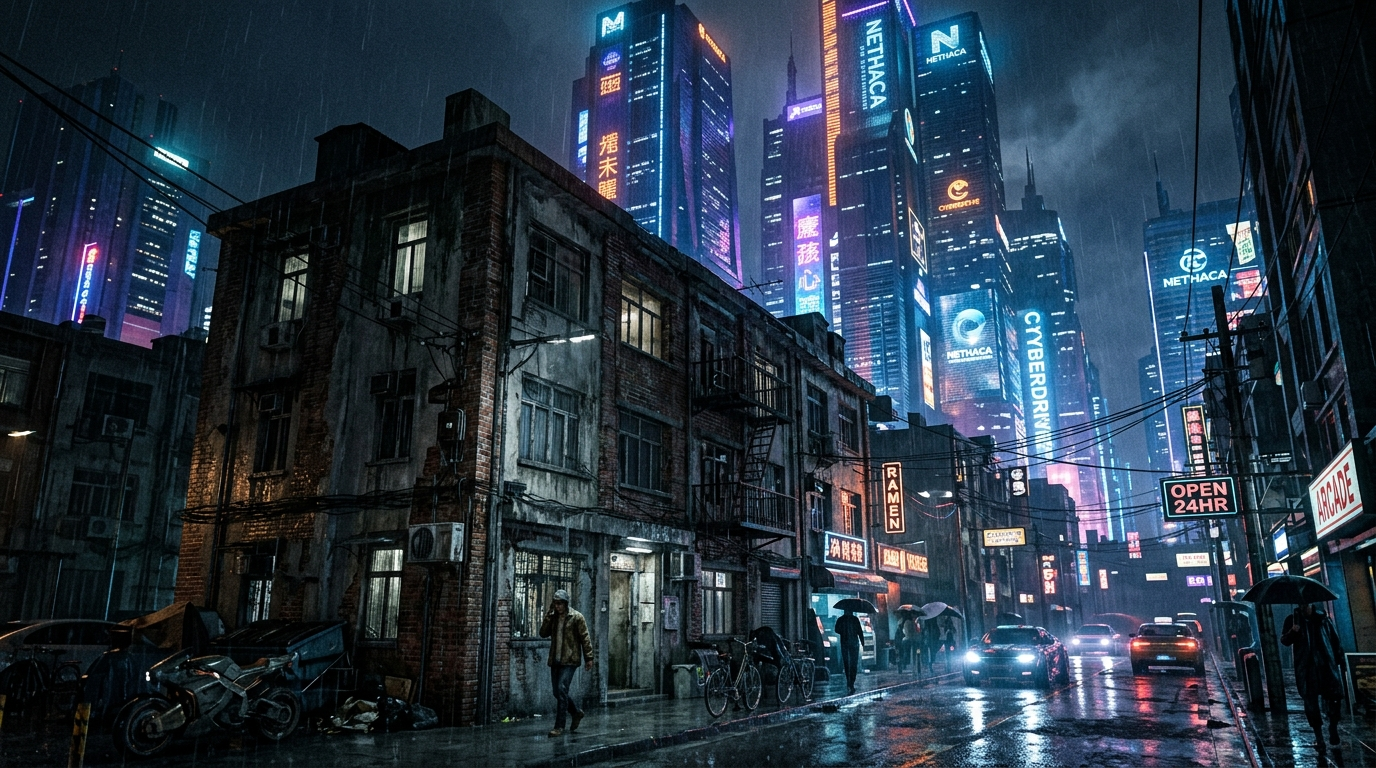
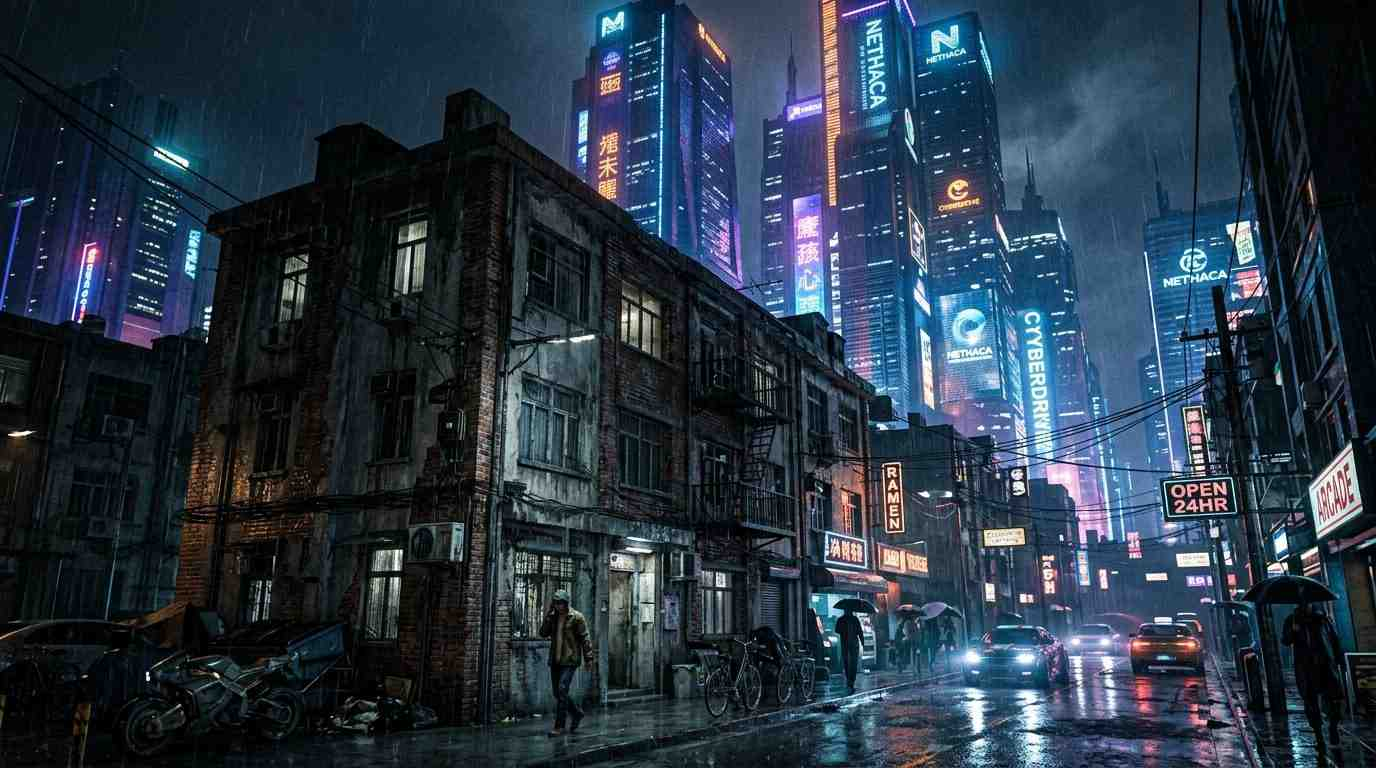
feat(login): 替换登录页背景图片为JPG格式
- 将背景胶片素材图片格式从PNG改为JPG，减小资源体积
- 保持胶片布局和滚动动画配置一致，确保视觉效果平滑
- 更新图片路径和列表，删除无用的PNG图片引用
- 保持所有功能代码及UI组件不变，确保登录流程和国际化正常运行

diff --git a/frontend/src/app/login/page.tsx b/frontend/src/app/login/page.tsx
@@ -17,23 +17,23 @@ import Logo from "@/components/Logo";
 
 // 本地素材图片
 const EFFECT_IMAGES = [
-  "/effect/023576f6-ce4d-4e16-ae0f-22ce69ac363e.png",
+  "/effect/023576f6-ce4d-4e16-ae0f-22ce69ac363e.jpg",
   "/effect/0d563961-5ad4-4d26-8d21-7b0152302e46.jpg",
   "/effect/1619b2eb-11a6-4302-9b0a-c4ee79283af6.jpg",
-  "/effect/18c5dedb-6fe7-4708-b864-afab675ca140.png",
+  "/effect/18c5dedb-6fe7-4708-b864-afab675ca140.jpg",
   "/effect/2d25e12c-adff-476d-8eaa-6a0cc73371f3.jpg",
-  "/effect/30a18532-606d-4f5f-841a-9a071a3d465e.png",
-  "/effect/5d13bdc6-329f-4475-92a6-bbc8703f4034.png",
-  "/effect/697b54f4-0941-43d6-8577-06442d49cd4d.png",
-  "/effect/79a6397c-83cc-419e-b42e-431d0db6b773.png",
-  "/effect/7a628fe3-6633-4f87-9c50-a91b14402c8e.png",
+  "/effect/30a18532-606d-4f5f-841a-9a071a3d465e.jpg",
+  "/effect/5d13bdc6-329f-4475-92a6-bbc8703f4034.jpg",
+  "/effect/697b54f4-0941-43d6-8577-06442d49cd4d.jpg",
+  "/effect/79a6397c-83cc-419e-b42e-431d0db6b773.jpg",
+  "/effect/7a628fe3-6633-4f87-9c50-a91b14402c8e.jpg",
   "/effect/a422bcd0-20ed-4496-b909-2e5b081e61e7.jpg",
   "/effect/c70ea786-873a-484e-a4e3-597f00985821.jpg",
-  "/effect/c86b0964-cb67-4402-b227-5b53305c2bc2.png",
+  "/effect/c86b0964-cb67-4402-b227-5b53305c2bc2.jpg",
   "/effect/ee13c0e5-e668-492b-9334-dcf861cb7dab.jpg",
   "/effect/f3d7d5f9-0f21-460a-9e3b-c1465495ae90.jpg",
-  "/effect/f8b65eac-dcf8-4c36-ad5e-a911872a4bd2.png",
-  "/effect/f8b65eac-dcf8-4c36-ad5e-a911872a4bd9.png",
+  "/effect/f8b65eac-dcf8-4c36-ad5e-a911872a4bd2.jpg",
+  "/effect/f8b65eac-dcf8-4c36-ad5e-a911872a4bd9.jpg",
 ];
 
 // 手动分配3行，每行8张，确保行间无重复、视觉均匀
